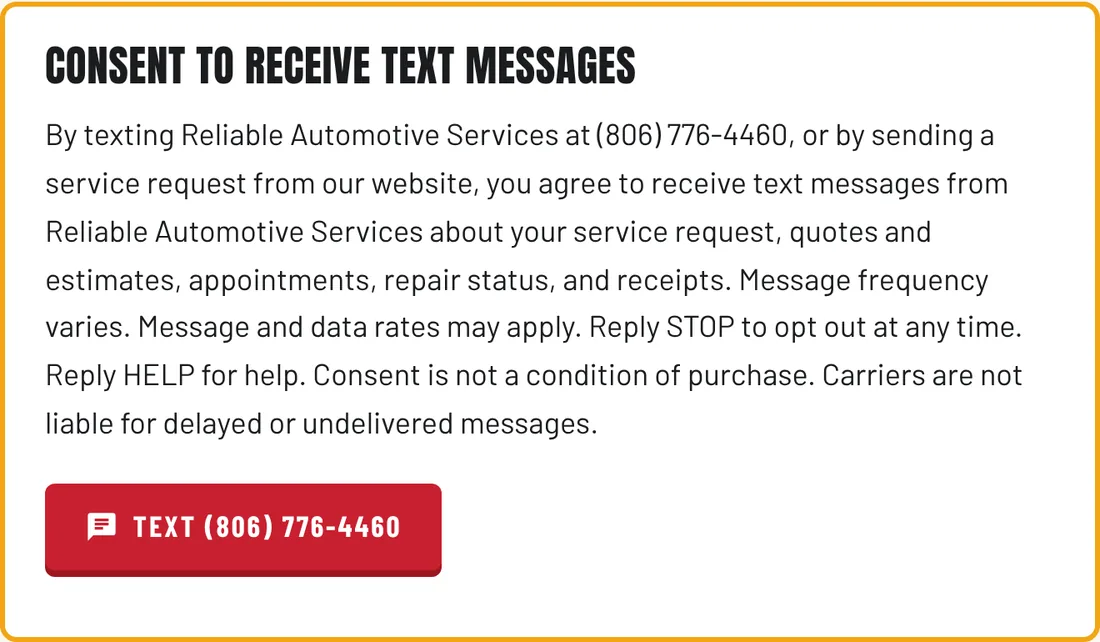
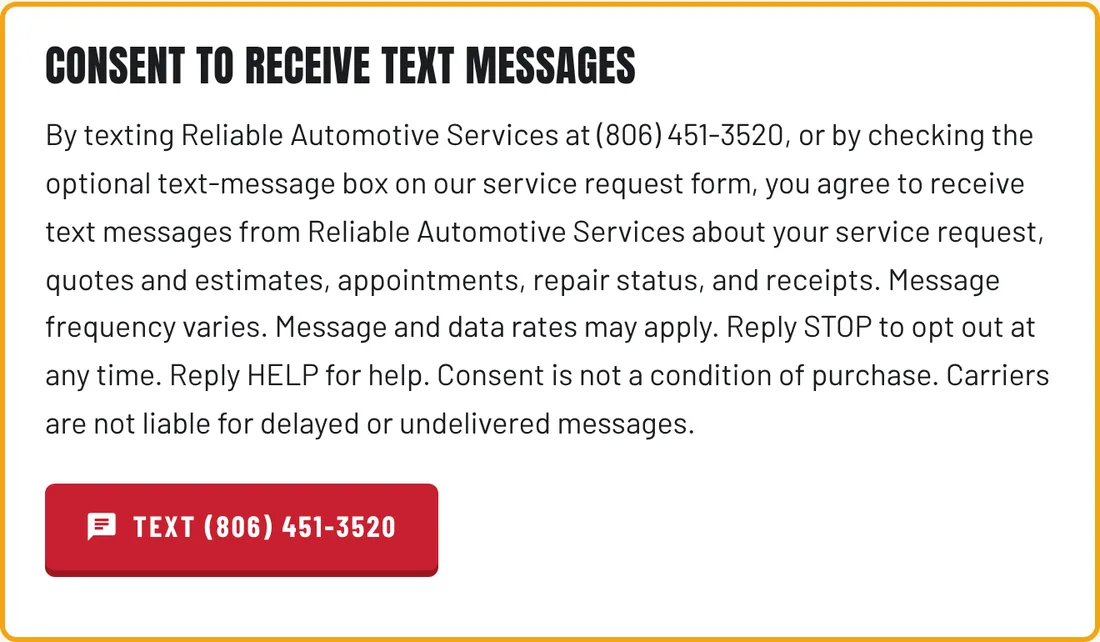
Use (806) 451-3520 for both calls and texts
Texting now runs through Twilio on the main shop number, so the separate
text line (806) 776-4460 is retired everywhere: every Call and Text link,
the request form's SMS target, SMS terms and consent pages, Privacy,
Terms, the opt-in evidence page (screenshots recaptured), Spanish pages,
and the share image. Spots that showed two numbers now say "Call or text".

Claude-Session: https://claude.ai/code/session_017kF9u6K8SAm3y7f3WTa67E

diff --git a/content_es.py b/content_es.py
@@ -1,6 +1,6 @@
 """Contenido en español. Cada servicio/área comparte `key` con content_en.py."""
 CALL = "(806) 451-3520"
-TEXT = "(806) 776-4460"
+TEXT = "(806) 451-3520"
 
 UI = {
     "lang": "es-US", "og_locale": "es_US", "name": "Español", "short": "ES",
@@ -27,7 +27,7 @@ UI = {
     "footer_tag": "Reparación de autos a domicilio &middot; Condado de Lubbock, TX",
     "quick": "Contacto rápido", "main_nav": "Principal", "crumb_label": "Ruta de navegación",
     "quote_h": "Pida una cotización", "quote_p": "Díganos el año, la marca, el modelo y qué está haciendo su vehículo.",
-    "texts_to": "Mensajes de texto al", "aside_label": "Pida una cotización",
+    "texts_to": "Llame o mande mensaje a este número. Es el mismo para los dos.", "call_or_text": "Llame o mande mensaje al", "aside_label": "Pida una cotización",
     "other_services": "Otros servicios", "nearby": "Áreas cercanas", "full_area": "Toda el área de servicio",
     "on_page": "En esta página", "legal": "Legal", "effective": "Vigente desde el",
     "mobile_service": "Servicio a domicilio",
@@ -314,7 +314,7 @@ ABOUT = {
 
 CONTACT = {
     "title": "Contacto y Solicitud de Servicio | Reliable Automotive Lubbock",
-    "desc": "Pida reparación de autos a domicilio en el condado de Lubbock. Llame al (806) 451-3520, mande mensaje al (806) 776-4460 o envíe su solicitud y le damos precio.",
+    "desc": "Pida reparación de autos a domicilio en el condado de Lubbock. Llame al (806) 451-3520, mande mensaje al (806) 451-3520 o envíe su solicitud y le damos precio.",
     "h1": "Pida servicio a domicilio", "eyebrow": "Contacto",
     "lead": "Llame, mande un mensaje o llene el formulario y le respondemos con un precio.",
     "form_h": "Solicitud de servicio",
@@ -338,7 +338,7 @@ FORM_JS = {
     "labels": "Nombre|Teléfono|Vehículo|Servicio|Ubicación|Mejor horario|Detalles",
     "missing": "Por favor agregue {list}.",
     "m_name": "su nombre", "m_phone": "un teléfono de 10 dígitos", "m_vehicle": "su vehículo", "m_location": "dónde está el vehículo",
-    "copied": "Copiado. Péguelo en un mensaje de texto al (806) 776-4460.", "copy_prompt": "Copie su solicitud:",
+    "copied": "Copiado. Péguelo en un mensaje de texto al (806) 451-3520.", "copy_prompt": "Copie su solicitud:",
     "lang_line": "Idioma preferido: Español",
     "consent_line": "Consentimiento para mensajes: Sí, pueden mandarme mensajes sobre esta solicitud y mi servicio (aceptado en yourcarguy806.com).",
 }
@@ -376,7 +376,7 @@ PRIVACY = {
     "sections": [
         ("Resumen", "<p>Esta Política de privacidad explica qué información recopila Reliable Automotive Services a través de yourcarguy806.com y cuando usted se comunica con nosotros o usa nuestros servicios, y cómo la usamos. Lo hacemos sencillo: solo recopilamos lo que necesitamos para reparar su vehículo y operar nuestro negocio, y no vendemos su información.</p>"),
         ("Información que usted nos da", "<p>Cuando llama, manda un mensaje o envía una solicitud de servicio, puede darnos su nombre, número de teléfono, la ubicación de su vehículo, datos del vehículo (año, marca, modelo, número VIN, millaje), una descripción del problema y fotos o videos. Cuando paga, recibimos la información de pago necesaria para procesarlo.</p>"),
-        ("Cómo funciona el formulario de solicitud", "<p>El formulario de solicitud de nuestra página de Contacto no envía su información a nuestro sitio web ni la guarda en un servidor. Cuando toca &ldquo;Enviar mi solicitud por mensaje&rdquo;, el formulario abre la aplicación de mensajes de su propio dispositivo con sus datos ya escritos y dirigidos a nuestra línea de mensajes, el (806) 776-4460. No se envía nada hasta que usted toque enviar. &ldquo;Copiar solicitud&rdquo; solo copia el texto al portapapeles de su dispositivo.</p>"),
+        ("Cómo funciona el formulario de solicitud", "<p>El formulario de solicitud de nuestra página de Contacto no envía su información a nuestro sitio web ni la guarda en un servidor. Cuando toca &ldquo;Enviar mi solicitud por mensaje&rdquo;, el formulario abre la aplicación de mensajes de su propio dispositivo con sus datos ya escritos y dirigidos a nuestra línea de mensajes, el (806) 451-3520. No se envía nada hasta que usted toque enviar. &ldquo;Copiar solicitud&rdquo; solo copia el texto al portapapeles de su dispositivo.</p>"),
         ("Preferencia de idioma", "<p>Si elige un idioma en nuestro sitio, su navegador recuerda esa elección en su dispositivo (almacenamiento local) para que el sitio se abra en el mismo idioma la próxima vez. Esa información no se nos envía y usted la puede cambiar en cualquier momento.</p>"),
         ("Información que se recopila automáticamente", "<p>Este sitio web no usa rastreadores de publicidad, cookies de análisis ni píxeles de mercadotecnia de terceros. Nuestro proveedor de hospedaje y seguridad, Cloudflare, procesa información técnica básica como direcciones IP, tipo de navegador y las páginas solicitadas para poder mostrar el sitio y protegerlo de abusos. Consulte la política de privacidad de Cloudflare para saber cómo maneja esos datos. Si en el futuro agregamos herramientas de análisis, primero actualizaremos esta política.</p>"),
         ("Cómo usamos la información", "<ul><li>Para responder a su solicitud y darle una cotización</li><li>Para programar, trasladarnos y dar servicio a su vehículo</li><li>Para enviar facturas, recibos y registros de servicio, y procesar pagos</li><li>Para dar seguimiento a trabajos terminados y preguntas de garantía</li><li>Para cumplir con obligaciones legales, fiscales y contables</li></ul>"),
@@ -393,16 +393,16 @@ PRIVACY = {
 
 SMS_PAGE = {
     "title": "Mándenos un Mensaje | SMS y Consentimiento | Reliable Automotive",
-    "desc": "Mande un mensaje de texto a Reliable Automotive Services al (806) 776-4460 para cotizaciones, citas y avisos de su reparación. Consentimiento, STOP y HELP.",
+    "desc": "Mande un mensaje de texto a Reliable Automotive Services al (806) 451-3520 para cotizaciones, citas y avisos de su reparación. Consentimiento, STOP y HELP.",
     "eyebrow": "Mensajes de texto (SMS)",
-    "h1": "Mándenos un mensaje al (806) 776-4460",
+    "h1": "Mándenos un mensaje al (806) 451-3520",
     "lead": "Pida una cotización, haga una cita y reciba avisos de su reparación por mensaje de texto.",
     "cta_h": "Empiece un mensaje",
     "cta_p": "Mándenos su nombre, el año, la marca y el modelo de su vehículo, dónde está y qué está haciendo. Las fotos y videos ayudan.",
-    "cta_btn": "Mensaje al (806) 776-4460",
+    "cta_btn": "Mensaje al (806) 451-3520",
     "form_btn": "Usar el formulario",
     "consent_h": "Consentimiento para recibir mensajes de texto",
-    "consent": "Al mandar un mensaje de texto a Reliable Automotive Services al (806) 776-4460, o al marcar la casilla opcional de mensajes de texto en nuestro formulario de solicitud, usted acepta recibir mensajes de texto de Reliable Automotive Services sobre su solicitud de servicio, cotizaciones y presupuestos, citas, estado de la reparación y recibos. La frecuencia de los mensajes varía. Pueden aplicar cargos por mensajes y datos. Responda STOP para cancelar en cualquier momento. Responda HELP para ayuda. El consentimiento no es condición de compra. Las compañías telefónicas no son responsables por mensajes retrasados o no entregados.",
+    "consent": "Al mandar un mensaje de texto a Reliable Automotive Services al (806) 451-3520, o al marcar la casilla opcional de mensajes de texto en nuestro formulario de solicitud, usted acepta recibir mensajes de texto de Reliable Automotive Services sobre su solicitud de servicio, cotizaciones y presupuestos, citas, estado de la reparación y recibos. La frecuencia de los mensajes varía. Pueden aplicar cargos por mensajes y datos. Responda STOP para cancelar en cualquier momento. Responda HELP para ayuda. El consentimiento no es condición de compra. Las compañías telefónicas no son responsables por mensajes retrasados o no entregados.",
     "sections": [
         ("Programa", "<p><strong>Mensajes de atención al cliente de Reliable Automotive Services.</strong> Mandamos mensajes de texto a clientes que se comunican con nosotros por reparación y mantenimiento de vehículos en el condado de Lubbock, Texas, y pueblos cercanos. Los mensajes son conversaciones sobre su propio servicio. No mandamos mensajes de publicidad ni promociones.</p>"),
         ("Cómo acepta recibir mensajes", "<p>Usted acepta al mandarnos primero un mensaje al {text_link}, o al marcar la casilla opcional (sin marcar de inicio) de mensajes de texto en el formulario de solicitud de nuestra <a href=\"/es/contacto/\">página de Contacto</a>. La casilla nunca es obligatoria: puede enviar una solicitud sin ella. El formulario abre un mensaje ya escrito hacia nosotros en su teléfono, y no se envía nada hasta que usted toque enviar. Nunca agregamos números de listas compradas o compartidas.</p>"),
@@ -416,7 +416,7 @@ SMS_PAGE = {
 
 SMS_EVIDENCE = {
     "title": "Evidencia de Consentimiento SMS | Reliable Automotive",
-    "desc": "Capturas de pantalla de dónde Reliable Automotive Services invita a los clientes a mandar mensajes al (806) 776-4460 y del aviso de consentimiento SMS.",
+    "desc": "Capturas de pantalla de dónde Reliable Automotive Services invita a los clientes a mandar mensajes al (806) 451-3520 y del aviso de consentimiento SMS.",
     "eyebrow": "Evidencia de consentimiento SMS",
     "h1": "Cómo aceptan los clientes recibir mensajes de texto",
     "lead": "Todos los lugares donde invitamos a los clientes a mandarnos un mensaje, y el aviso de consentimiento que ven antes de hacerlo. El cliente siempre manda el primer mensaje.",

diff --git a/content_en.py b/content_en.py
@@ -1,6 +1,6 @@
 """English content. Each service/area has a stable `key` shared with content_es.py."""
 CALL = "(806) 451-3520"
-TEXT = "(806) 776-4460"
+TEXT = "(806) 451-3520"
 
 UI = {
     "lang": "en-US", "og_locale": "en_US", "name": "English", "short": "EN",
@@ -27,7 +27,7 @@ UI = {
     "footer_tag": "Mobile auto repair &middot; Lubbock County, TX",
     "quick": "Quick contact", "main_nav": "Main", "crumb_label": "Breadcrumb",
     "quote_h": "Get a quote", "quote_p": "Tell us the year, make, model, and what it's doing.",
-    "texts_to": "Texts go to", "aside_label": "Get a quote",
+    "texts_to": "Call or text this number. Same number for both.", "call_or_text": "Call or text", "aside_label": "Get a quote",
     "other_services": "Other services", "nearby": "Nearby areas", "full_area": "Full service area",
     "on_page": "On this page", "legal": "Legal", "effective": "Effective",
     "mobile_service": "Mobile service",
@@ -314,7 +314,7 @@ ABOUT = {
 
 CONTACT = {
     "title": "Contact & Request Service | Reliable Automotive Services Lubbock",
-    "desc": "Request mobile auto repair in Lubbock County. Call (806) 451-3520, text (806) 776-4460, or send a service request and we'll get back to you with a price.",
+    "desc": "Request mobile auto repair in Lubbock County. Call (806) 451-3520, text (806) 451-3520, or send a service request and we'll get back to you with a price.",
     "h1": "Request Mobile Service", "eyebrow": "Contact",
     "lead": "Call, text, or fill out the form and we'll get back to you with a price.",
     "form_h": "Service request",
@@ -339,7 +339,7 @@ FORM_JS = {
     "labels": "Name|Callback|Vehicle|Service|Location|Best time|Details",
     "missing": "Please add {list}.",
     "m_name": "your name", "m_phone": "a 10-digit callback number", "m_vehicle": "your vehicle", "m_location": "where the vehicle is",
-    "copied": "Copied. Paste it into a text to (806) 776-4460.", "copy_prompt": "Copy your request:",
+    "copied": "Copied. Paste it into a text to (806) 451-3520.", "copy_prompt": "Copy your request:",
     "lang_line": "",
     "consent_line": "Text consent: Yes, you may text me about this request and my service (agreed on yourcarguy806.com).",
 }
@@ -377,7 +377,7 @@ PRIVACY = {
     "sections": [
         ("Overview", "<p>This Privacy Policy explains what information Reliable Automotive Services collects through yourcarguy806.com and when you contact us or use our services, and how we use it. We keep it simple: we collect only what we need to fix your vehicle and run our business, and we don't sell your information.</p>"),
         ("Information you give us", "<p>When you call, text, or send a service request, you may give us your name, phone number, the location of your vehicle, vehicle details (year, make, model, VIN, mileage), a description of the problem, and photos or videos. When you pay, we receive the payment information needed to process it.</p>"),
-        ("How the service request form works", "<p>The request form on our Contact page does not send your information to our website or store it on a server. When you press &ldquo;Text My Request,&rdquo; the form opens the messaging app on your own device with your details pre-filled and addressed to our text line, (806) 776-4460. Nothing is sent until you hit send. &ldquo;Copy request&rdquo; copies the text to your device's clipboard only.</p>"),
+        ("How the service request form works", "<p>The request form on our Contact page does not send your information to our website or store it on a server. When you press &ldquo;Text My Request,&rdquo; the form opens the messaging app on your own device with your details pre-filled and addressed to our text line, (806) 451-3520. Nothing is sent until you hit send. &ldquo;Copy request&rdquo; copies the text to your device's clipboard only.</p>"),
         ("Language preference", "<p>If you choose a language on our site, your browser remembers that choice on your device (local storage) so the site opens in the same language next time. It is not sent to us, and you can change it any time.</p>"),
         ("Information collected automatically", "<p>This website does not use advertising trackers, analytics cookies, or third-party marketing pixels. Our hosting and security provider, Cloudflare, processes basic technical information such as IP addresses, browser type, and the pages requested in order to deliver the site and protect it from abuse. See Cloudflare's privacy policy for how it handles that data. If we add analytics in the future, we will update this policy first.</p>"),
         ("How we use information", "<ul><li>To respond to your request and give you a quote</li><li>To schedule, travel to, and perform service on your vehicle</li><li>To send invoices, receipts, and service records, and to process payments</li><li>To follow up on completed work and warranty questions</li><li>To meet legal, tax, and accounting obligations</li></ul>"),
@@ -394,16 +394,16 @@ PRIVACY = {
 
 SMS_PAGE = {
     "title": "Text Us | SMS Terms & Consent | Reliable Automotive Services",
-    "desc": "Text Reliable Automotive Services at (806) 776-4460 for quotes, scheduling, and repair updates. How our text messages work, consent, STOP and HELP.",
+    "desc": "Text Reliable Automotive Services at (806) 451-3520 for quotes, scheduling, and repair updates. How our text messages work, consent, STOP and HELP.",
     "eyebrow": "Text messaging (SMS)",
-    "h1": "Text Us at (806) 776-4460",
+    "h1": "Text Us at (806) 451-3520",
     "lead": "Get a quote, schedule service, and get repair updates by text message.",
     "cta_h": "Start a text",
     "cta_p": "Text us your name, your vehicle's year, make, and model, where it is, and what it's doing. Photos and videos help.",
-    "cta_btn": "Text (806) 776-4460",
+    "cta_btn": "Text (806) 451-3520",
     "form_btn": "Use the request form",
     "consent_h": "Consent to receive text messages",
-    "consent": "By texting Reliable Automotive Services at (806) 776-4460, or by checking the optional text-message box on our service request form, you agree to receive text messages from Reliable Automotive Services about your service request, quotes and estimates, appointments, repair status, and receipts. Message frequency varies. Message and data rates may apply. Reply STOP to opt out at any time. Reply HELP for help. Consent is not a condition of purchase. Carriers are not liable for delayed or undelivered messages.",
+    "consent": "By texting Reliable Automotive Services at (806) 451-3520, or by checking the optional text-message box on our service request form, you agree to receive text messages from Reliable Automotive Services about your service request, quotes and estimates, appointments, repair status, and receipts. Message frequency varies. Message and data rates may apply. Reply STOP to opt out at any time. Reply HELP for help. Consent is not a condition of purchase. Carriers are not liable for delayed or undelivered messages.",
     "sections": [
         ("Program", "<p><strong>Reliable Automotive Services customer care texts.</strong> We text customers who contact us about vehicle repair and maintenance in Lubbock County, Texas, and surrounding towns. Texts are conversational and about your own service. We do not send marketing or promotional texts.</p>"),
         ("How you opt in", "<p>You opt in by texting us first at {text_link}, or by checking the optional, unchecked text-message box on the service request form on our <a href=\"/contact/\">Contact page</a>. The box is never required: you can send a request without it. The form opens a pre-filled text to us on your phone, and nothing is sent until you hit send. We never add numbers to a text list from a purchased or shared list.</p>"),
@@ -417,7 +417,7 @@ SMS_PAGE = {
 
 SMS_EVIDENCE = {
     "title": "SMS Opt-In Evidence | Reliable Automotive Services",
-    "desc": "Screenshots of where Reliable Automotive Services invites customers to text (806) 776-4460 and the SMS consent disclosure they see before texting.",
+    "desc": "Screenshots of where Reliable Automotive Services invites customers to text (806) 451-3520 and the SMS consent disclosure they see before texting.",
     "eyebrow": "SMS opt-in evidence",
     "h1": "How Customers Opt In to Text Messages",
     "lead": "Every place we invite customers to text us, and the consent disclosure they see before they text. Customers always send the first message.",

diff --git a/build.py b/build.py
@@ -22,7 +22,8 @@ SITE = "https://www.yourcarguy806.com"
 NAME = "Reliable Automotive Services"
 SHORT = "Your Car Guy 806"
 CALL_DISPLAY, CALL_E164 = "(806) 451-3520", "+18064513520"
-TEXT_DISPLAY, TEXT_E164 = "(806) 776-4460", "+18067764460"
+# Calls and texts use the same Twilio number.
+TEXT_DISPLAY, TEXT_E164 = CALL_DISPLAY, CALL_E164
 TEL = "tel:" + CALL_E164
 SMS = "sms:" + TEXT_E164
 TODAY = date.today().isoformat()
@@ -124,7 +125,7 @@ def header(lang, pid):
     alt = path_for(o, pid) if pid else OU["paths"]["home"]
     return f'''<a class="skip" href="#main">{U["skip"]}</a>
 <div class="topbar"><div class="wrap"><span class="hide-sm">{U["topbar_left"]}</span>
-<span class="topbar-phones"><a href="{TEL}">{ICONS["phone"]}<span class="hide-sm">{U["call"]}&nbsp;</span>{CALL_DISPLAY}</a><span class="sep" aria-hidden="true">&middot;</span><a href="{SMS}">{ICONS["text"]}<span class="hide-sm">{U["text"]}&nbsp;</span>{TEXT_DISPLAY}</a></span></div></div>
+<span class="topbar-phones"><a href="{TEL}">{ICONS["phone"]}<span class="hide-sm">{U["call_or_text"]}&nbsp;</span>{CALL_DISPLAY}</a><span class="sep" aria-hidden="true">&middot;</span><a href="{SMS}" aria-label="{U["text"]} {TEXT_DISPLAY}">{ICONS["text"]}{U["text"]}</a></span></div></div>
 <header class="site-header"><div class="wrap">
 <a class="brand" href="{P["home"]}" aria-label="{NAME} {U["home_label"]}">{LOGO}<span class="brand-text"><span class="brand-name">Reliable Automotive</span><span class="brand-sub">Your Car Guy &middot; 806</span></span></a>
 <div class="header-tools">
@@ -147,7 +148,7 @@ def footer(lang, pid):
 <footer class="site-footer"><div class="wrap"><div class="grid">
 <div><a class="brand" href="{P["home"]}">{LOGO}<span class="brand-text"><span class="brand-name">Reliable Automotive</span><span class="brand-sub">Your Car Guy &middot; 806</span></span></a>
 <p>{U["footer_about"]}</p>
-<p>{U["call"]}: <a href="{TEL}"><strong>{CALL_DISPLAY}</strong></a><br>{U["text"]}: <a href="{SMS}"><strong>{TEXT_DISPLAY}</strong></a></p>
+<p>{U["call_or_text"]}: <a href="{TEL}"><strong>{CALL_DISPLAY}</strong></a> (<a href="{SMS}">{U["text"].lower()}</a>)</p>
 <div class="lang-setting"><label for="lang-select">{ICONS["globe"]}{U["lang_setting"]}</label>
 <select id="lang-select" data-en="{en_path}" data-es="{es_path}">{opts}</select></div></div>
 <div><h2>{U["f_services"]}</h2><ul>{svc}<li><a href="{P["services"]}">{U["all_services"]}</a></li></ul></div>
@@ -253,7 +254,7 @@ def callbox(lang):
     return f'''<div class="callbox"><h2>{U["quote_h"]}</h2><p>{U["quote_p"]}</p>
 <a class="big-phone" href="{TEL}">{CALL_DISPLAY}</a>
 <a class="btn btn-red" href="{TEL}">{ICONS["phone"]}{U["call_now"]}</a><a class="btn btn-amber" href="{SMS}">{ICONS["text"]}{U["send_text"]}</a>
-<p class="text-line">{U["texts_to"]} <a href="{SMS}">{TEXT_DISPLAY}</a></p>{sms_note(lang)}</div>'''
+<p class="text-line">{U["texts_to"]}</p>{sms_note(lang)}</div>'''
 
 
 def service_card(lang, s):
@@ -291,7 +292,7 @@ def home(lang):
 <a class="big-phone" href="{TEL}">{CALL_DISPLAY}</a>
 <ul class="checks">{checks}</ul>
 <a class="btn btn-amber" style="width:100%" href="{SMS}">{ICONS["text"]}{H["text_btn"]}</a>
-<p class="text-line">{U["texts_to"]} <a href="{SMS}">{TEXT_DISPLAY}</a></p>{sms_note(lang)}</aside>
+<p class="text-line">{U["texts_to"]}</p>{sms_note(lang)}</aside>
 </div></section><div class="stripe" role="none"></div>
 
 <section><div class="wrap"><div class="section-head"><p class="eyebrow">{H["svc_eyebrow"]}</p><h2>{H["svc_h"]}</h2>
@@ -539,8 +540,8 @@ def make_images():
         d.text((360, 120), "RELIABLE AUTOMOTIVE", font=display(78), fill="#f4ecdc")
         d.text((360, 212), "SERVICES", font=display(78), fill="#f4ecdc")
         d.text((364, 318), tag, font=font(28), fill="#f2a516")
-        d.text((360, 372), f"{call_lbl} {CALL_DISPLAY}", font=display(64), fill="#ffffff")
-        d.text((360, 452), f"{text_lbl} {TEXT_DISPLAY}", font=display(48), fill="#f2a516")
+        d.text((364, 372), call_lbl + (" / " + text_lbl if TEXT_E164 == CALL_E164 else ""), font=font(30), fill="#f2a516")
+        d.text((360, 412), CALL_DISPLAY, font=display(86), fill="#ffffff")
         d.text((364, 530), "yourcarguy806.com", font=font(26), fill="#cfc6b4")
         og.save(os.path.join(DIST, fname), optimize=True)
 

diff --git a/tests/static_checks.py b/tests/static_checks.py
@@ -6,7 +6,7 @@ from xml.etree import ElementTree as ET
 
 DIST = os.path.join(os.path.dirname(__file__), "..", "dist")
 SITE = "https://www.yourcarguy806.com"
-CALL, TEXT = "+18064513520", "+18067764460"
+CALL, TEXT = "+18064513520", "+18064513520"
 fails = []
 
 
@@ -88,7 +88,7 @@ for url, p in pages.items():
     if p.canon != SITE + url: fails.append(f"{url}: canonical {p.canon}")
     og = SITE + ("/og-image-es.png" if is_es else "/og-image.png")
     if p.meta.get("og:image") != og: fails.append(f"{url}: og:image")
-    if "(806) 451-3520" not in raw[url] or "(806) 776-4460" not in raw[url]:
+    if "(806) 451-3520" not in raw[url] or "(806) 451-3520" not in raw[url]:
         fails.append(f"{url}: both phone numbers should appear")
     # hreflang
     if set(p.alts) != {"en-US", "es-US", "x-default"}: fails.append(f"{url}: hreflang set {set(p.alts)}")
@@ -129,9 +129,9 @@ def text_of(url):
     return _re.sub(r"\s+", " ", _re.sub(r"<[^>]+>", " ", raw[url]))
 for sms_url, contact_url, privacy_url, terms_url, words in [
         ("/sms/", "/contact/", "/privacy/", "/terms/",
-         ["Message frequency varies", "data rates may apply", "Reply STOP", "HELP", "not a condition of purchase", "(806) 776-4460"]),
+         ["Message frequency varies", "data rates may apply", "Reply STOP", "HELP", "not a condition of purchase", "(806) 451-3520"]),
         ("/es/mensajes-de-texto/", "/es/contacto/", "/es/privacidad/", "/es/terminos/",
-         ["frecuencia de los mensajes varía", "cargos por mensajes y datos", "STOP", "HELP", "no es condición de compra", "(806) 776-4460"])]:
+         ["frecuencia de los mensajes varía", "cargos por mensajes y datos", "STOP", "HELP", "no es condición de compra", "(806) 451-3520"])]:
     for url in (sms_url, contact_url):
         t = text_of(url)
         for w in words:
@@ -152,7 +152,7 @@ for sms_url, contact_url, privacy_url, terms_url, words in [
     if f'href="{sms_url}"' not in raw[privacy_url] or f'href="{sms_url}"' not in raw[terms_url]:
         fails.append(f"{privacy_url}/{terms_url}: must link the SMS page")
     tt = text_of(terms_url)
-    for w in ("STOP", "HELP", "(806) 776-4460"):
+    for w in ("STOP", "HELP", "(806) 451-3520"):
         if w not in tt: fails.append(f"{terms_url}: SMS terms missing {w!r}")
 for url, phrase in [("/privacy/", "No mobile information will be shared with third parties or affiliates for marketing or promotional purposes."),
                     ("/sms/", "No mobile information will be shared with third parties or affiliates for marketing or promotional purposes."),
@@ -182,7 +182,7 @@ for url, lang in (("/sms-opt-in/", "en"), ("/es/evidencia-sms/", "es")):
         rel = f"sms-evidence/{key}-{lang}.webp"
         if not os.path.isfile(os.path.join(DIST, rel)): fails.append(f"{url}: screenshot {rel} not built")
         elif f'src="/{rel}?v=' not in raw[url]: fails.append(f"{url}: screenshot {rel} not shown")
-    if "(806) 776-4460" not in text_of(url): fails.append(f"{url}: text number missing")
+    if "(806) 451-3520" not in text_of(url): fails.append(f"{url}: text number missing")
 for sms_url, ev in (("/sms/", "/sms-opt-in/"), ("/es/mensajes-de-texto/", "/es/evidencia-sms/")):
     if f'href="{ev}"' not in raw[sms_url]: fails.append(f"{sms_url}: does not link {ev}")
 

diff --git a/tests/browser_checks.py b/tests/browser_checks.py
@@ -5,7 +5,7 @@ from playwright.sync_api import sync_playwright
 
 DIST = os.path.abspath(os.path.join(os.path.dirname(__file__), "..", "dist"))
 SHOTS = os.environ.get("SHOTS", "/tmp/shots"); os.makedirs(SHOTS, exist_ok=True)
-TEXT = "+18067764460"
+TEXT = "+18064513520"
 
 HEADERS, cur = {}, None
 for line in open(os.path.join(DIST, "_headers")):
@@ -162,7 +162,7 @@ with sync_playwright() as pw:
         clip = page.evaluate("navigator.clipboard.readText()")
         check(label_name + "Test Customer" in clip and "82nd & Slide" in clip, f"{path}: copied text wrong {clip!r}")
         if lang_line: check(lang_line in clip, f"{path}: Spanish preference line missing")
-        check("776-4460" in page.inner_text(".error"), f"{path}: copy confirmation should name the text line")
+        check("451-3520" in page.inner_text(".error"), f"{path}: copy confirmation should name the text line")
         page.evaluate("document.getElementById('request-form').requestSubmit()"); page.wait_for_timeout(500)
         m = re.search(r"sms:(\+\d+)\?&body=(\S+)", " ".join(seen))
         if not m: fails.append(f"{path}: submit did not open an sms: link")
@@ -188,7 +188,7 @@ with sync_playwright() as pw:
         ctx = browser.new_context(viewport={"width": 390, "height": 844}); page = ctx.new_page()
         page.goto(BASE + path, wait_until="networkidle")
         check(page.is_visible(f".consent-box >> text={needle}"), f"{path}: consent box not visible")
-        check(page.get_attribute(".hero .btn-amber", "href") == "sms:+18067764460", f"{path}: hero text button wrong")
+        check(page.get_attribute(".hero .btn-amber", "href") == "sms:+18064513520", f"{path}: hero text button wrong")
         page.screenshot(path=f"{SHOTS}/sms-{'es' if 'es/' in path else 'en'}-phone.png", full_page=True)
         ctx.close()
 

diff --git a/README.md b/README.md
@@ -3,7 +3,7 @@
 A static website (no server, no database) built for Cloudflare Pages.
 
 - `content_en.py` / `content_es.py` — all English and Spanish wording (services, towns, FAQs, Terms, Privacy). Edit both when you change content; the build stops if they don't list the same services and towns.
-- `build.py` — generates every page in both languages (English at `/`, Spanish at `/es/`). Phone numbers are set at the top: calls go to (806) 451-3520, texts and the contact form go to (806) 776-4460.
+- `build.py` — generates every page in both languages (English at `/`, Spanish at `/es/`). Phone numbers are set at the top: calls go to (806) 451-3520, texts and the contact form go to (806) 451-3520.
 - `static/` — CSS, JavaScript, and self-hosted fonts.
 - `dist/` — the finished website. **This is the folder you upload to Cloudflare.**
 - `tests/` — smoke tests (`python3 tests/static_checks.py`, `python3 tests/browser_checks.py`).
@@ -44,6 +44,6 @@ To re-run a deploy: GitHub → Actions → "Build, test & deploy yourcarguy806.c
 ## Things to confirm or edit
 - The service list: delete anything you don't do on site, and add anything missing.
 - Business hours aren't listed anywhere yet. Add them once they're set (and to the Google Business Profile).
-- The contact form and every "Text" button open a pre-filled **text message** to (806) 776-4460. Calls go to (806) 451-3520.
+- The contact form and every "Text" button open a pre-filled **text message** to (806) 451-3520. Calls go to (806) 451-3520.
 - The Spanish site says the *website* is in Spanish. It doesn't promise Spanish over the phone. If you or a tech speak Spanish, say so in the "¿Hablan español?" FAQ in content_es.py.
 - Terms of Service and Privacy Policy (English and Spanish, with the English version controlling) are solid starting points, not legal advice. Have them reviewed if you want certainty, especially the warranty and liability sections.
